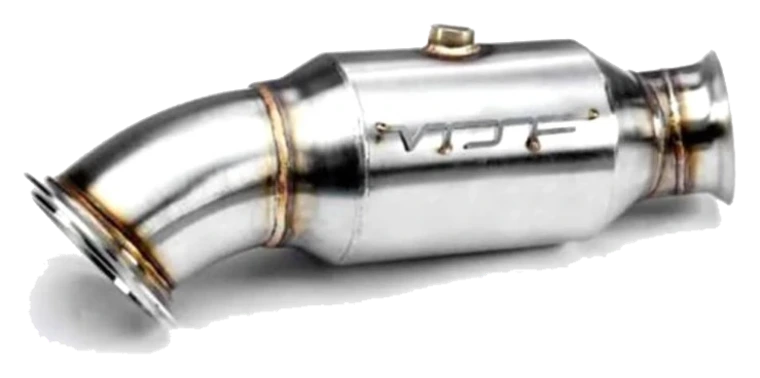
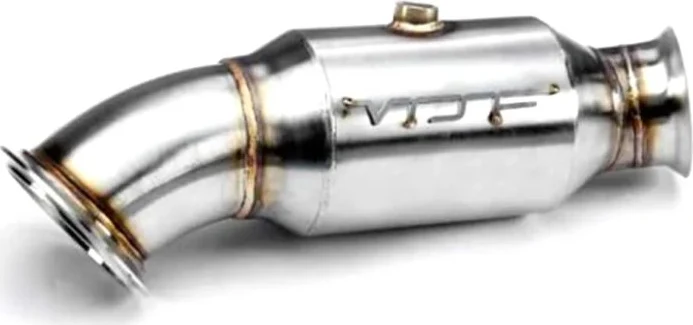
Parts: keep product photos on white (no die-cut)
Regenerate the N55 & B58 downpipe webps from source with their white
background (flattened on white), and switch the card + detail media to
a clean white backing so the photos read as a proper product catalog.
Bump cache to v=22.

diff --git a/style.css b/style.css
@@ -406,13 +406,9 @@ html[lang="th"] .hero__loc { letter-spacing: .06em; }
 .part-card:hover .part-card__cta { border-color: var(--accent); color: var(--accent); }
 .part-card__media {
   position: relative; aspect-ratio: 16 / 9; display: grid; place-items: center; overflow: hidden;
-  border-bottom: 1px solid var(--border);
-  background:
-    radial-gradient(120% 90% at 70% 18%, rgba(44,166,224,.14), transparent 60%),
-    radial-gradient(120% 90% at 25% 95%, rgba(231,34,46,.18), transparent 60%),
-    linear-gradient(145deg, #1d1d24, #121216);
+  border-bottom: 1px solid var(--border); background: #fff;
 }
-.part-card__img { width: 88%; height: 88%; object-fit: contain; z-index: 1; transition: transform .5s var(--ease); }
+.part-card__img { width: 100%; height: 100%; object-fit: contain; z-index: 1; transition: transform .5s var(--ease); }
 .part-card:hover .part-card__img { transform: scale(1.06); }
 .part-card__stripe { position: absolute; left: 0; right: 0; top: 0; height: 3px; z-index: 2; background: linear-gradient(90deg, var(--m-light) 0 33.33%, var(--m-dark) 33.33% 66.66%, var(--m-red) 66.66% 100%); }
 .part-card__tag { position: absolute; top: 12px; right: 12px; z-index: 3; background: var(--accent); color: #fff; font-family: "Sora", sans-serif; font-weight: 700; font-size: .58rem; letter-spacing: .07em; text-transform: uppercase; padding: 4px 9px; border-radius: 999px; }
@@ -440,14 +436,10 @@ html[lang="th"] .hero__loc { letter-spacing: .06em; }
 
 .pd-media {
   position: relative; border: 1px solid var(--border); border-radius: var(--radius); overflow: hidden;
-  aspect-ratio: 4 / 3; display: grid; place-items: center;
-  background:
-    radial-gradient(120% 90% at 70% 18%, rgba(44,166,224,.14), transparent 60%),
-    radial-gradient(120% 90% at 25% 95%, rgba(231,34,46,.18), transparent 60%),
-    linear-gradient(145deg, #1d1d24, #121216);
+  aspect-ratio: 4 / 3; display: grid; place-items: center; background: #fff;
 }
 .pd-media__stripe { position: absolute; left: 0; right: 0; top: 0; height: 4px; z-index: 2; background: linear-gradient(90deg, var(--m-light) 0 33.33%, var(--m-dark) 33.33% 66.66%, var(--m-red) 66.66% 100%); }
-.pd-media__img { width: 90%; height: 90%; object-fit: contain; }
+.pd-media__img { width: 100%; height: 100%; object-fit: contain; }
 
 .pd-brand { color: var(--steel-2); font-size: .74rem; letter-spacing: .16em; text-transform: uppercase; font-weight: 700; }
 .pd-name { font-family: "Sora", sans-serif; font-weight: 800; font-size: clamp(1.5rem, 4vw, 2.3rem); line-height: 1.1; margin-top: 6px; }

diff --git a/index.html b/index.html
@@ -12,7 +12,7 @@
   <link rel="preconnect" href="https://fonts.googleapis.com" />
   <link rel="preconnect" href="https://fonts.gstatic.com" crossorigin />
   <link rel="stylesheet" href="https://fonts.googleapis.com/css2?family=Sora:wght@400;600;700;800&family=Inter:wght@300;400;500;600&family=Noto+Sans+Thai:wght@300;400;500&display=swap" />
-  <link rel="stylesheet" href="style.css?v=21" />
+  <link rel="stylesheet" href="style.css?v=22" />
 </head>
 <body>
 
@@ -342,7 +342,7 @@
     </div>
   </footer>
 
-  <script src="products.js?v=21"></script>
-  <script src="script.js?v=21"></script>
+  <script src="products.js?v=22"></script>
+  <script src="script.js?v=22"></script>
 </body>
 </html>

diff --git a/product.html b/product.html
@@ -9,7 +9,7 @@
   <link rel="preconnect" href="https://fonts.googleapis.com" />
   <link rel="preconnect" href="https://fonts.gstatic.com" crossorigin />
   <link rel="stylesheet" href="https://fonts.googleapis.com/css2?family=Sora:wght@400;600;700;800&family=Inter:wght@300;400;500;600&family=Noto+Sans+Thai:wght@300;400;500&display=swap" />
-  <link rel="stylesheet" href="style.css?v=21" />
+  <link rel="stylesheet" href="style.css?v=22" />
 </head>
 <body>
 
@@ -77,7 +77,7 @@
     <a href="index.html#parts" data-i18n="pd.back">All parts</a>
   </footer>
 
-  <script src="products.js?v=21"></script>
+  <script src="products.js?v=22"></script>
   <script>
     (function () {
       var T = {